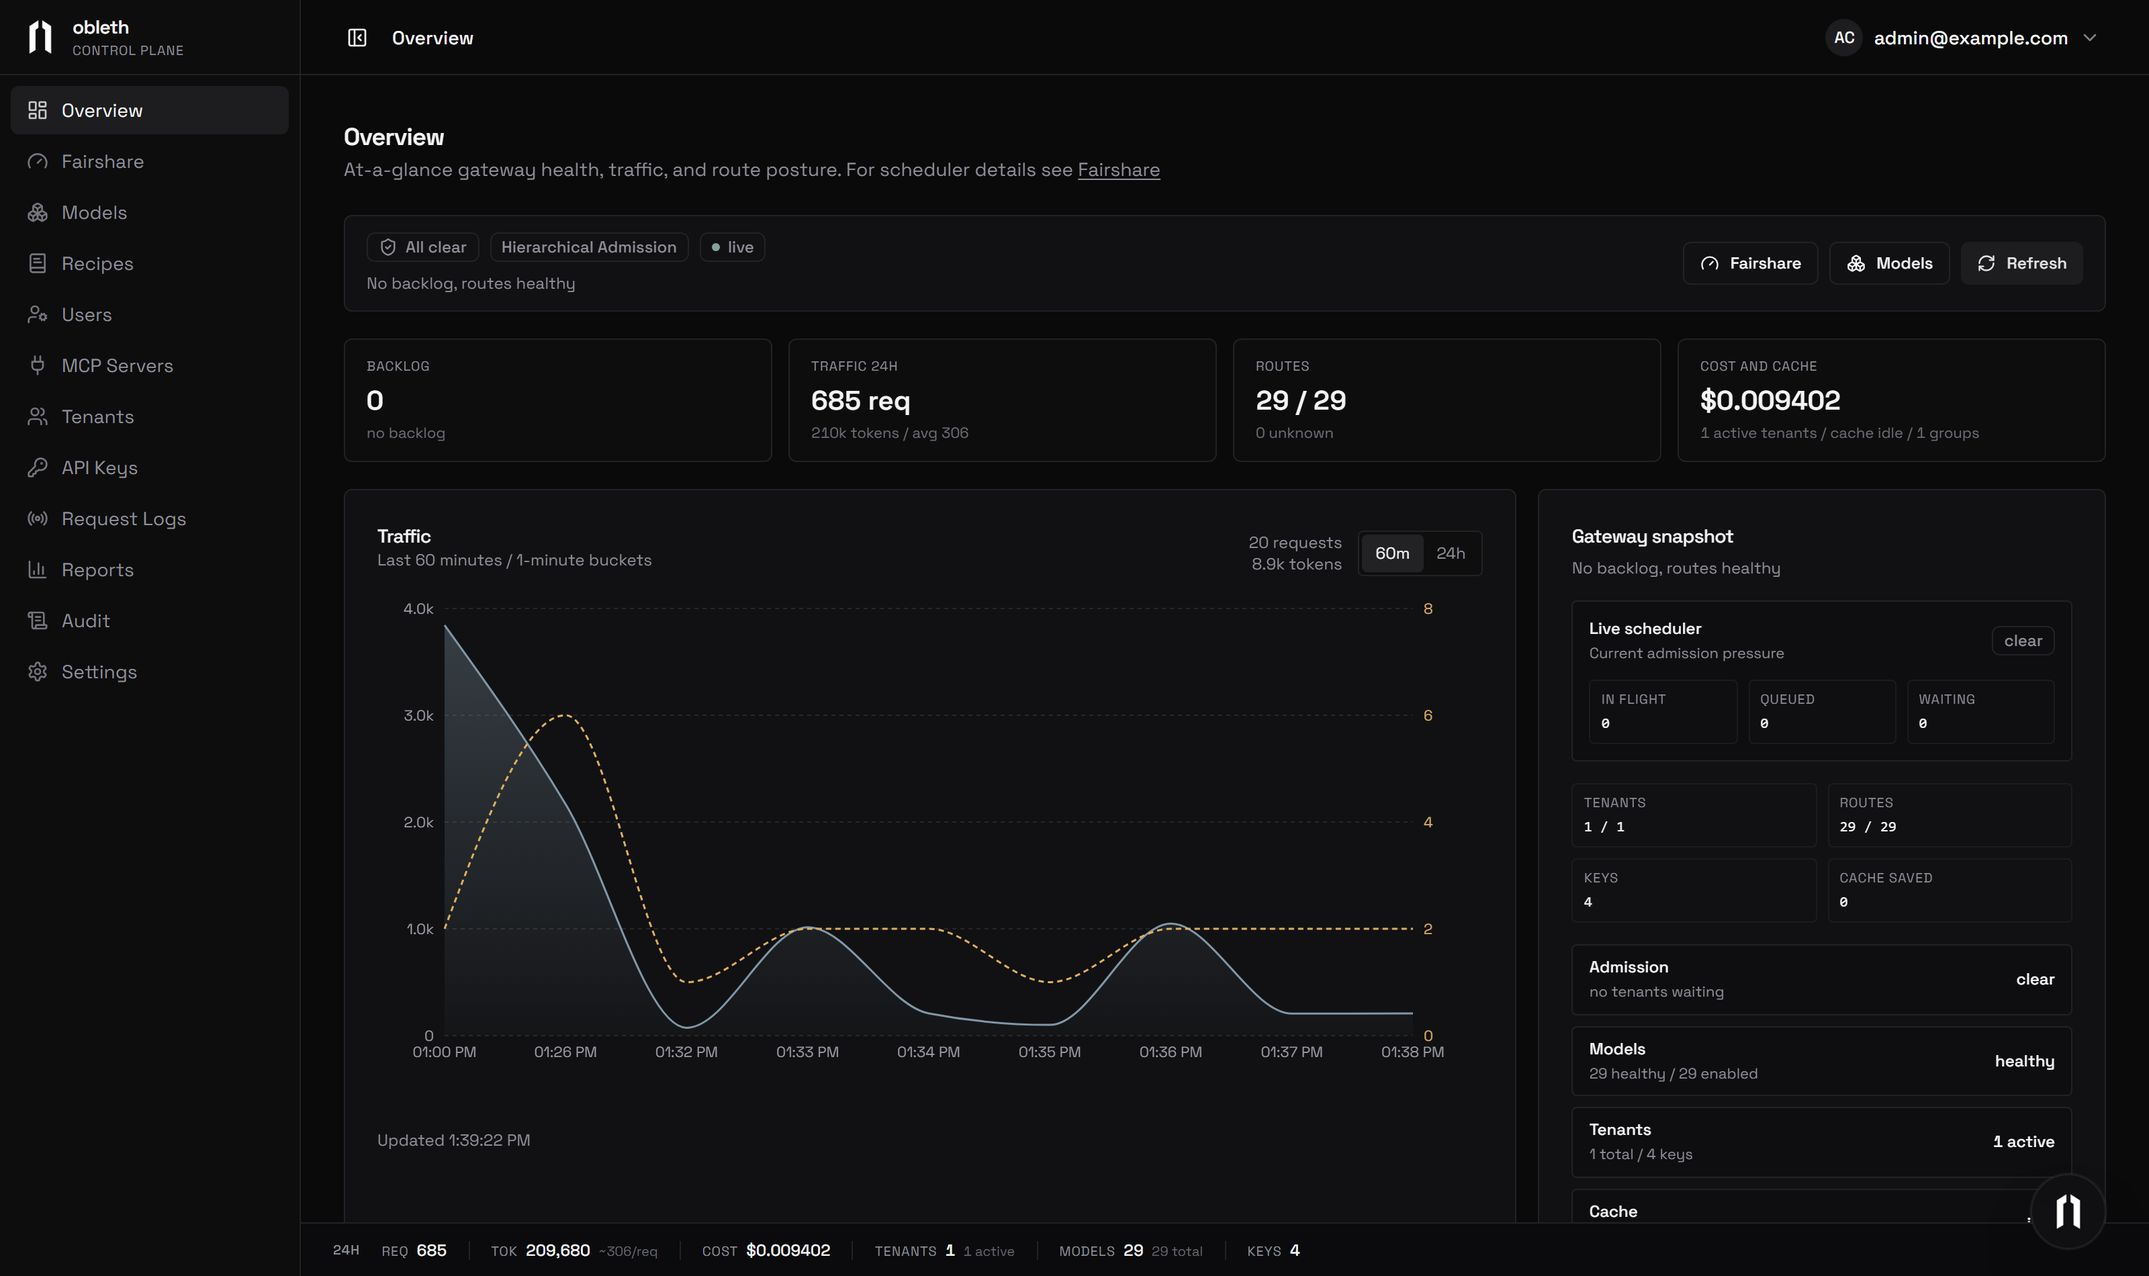
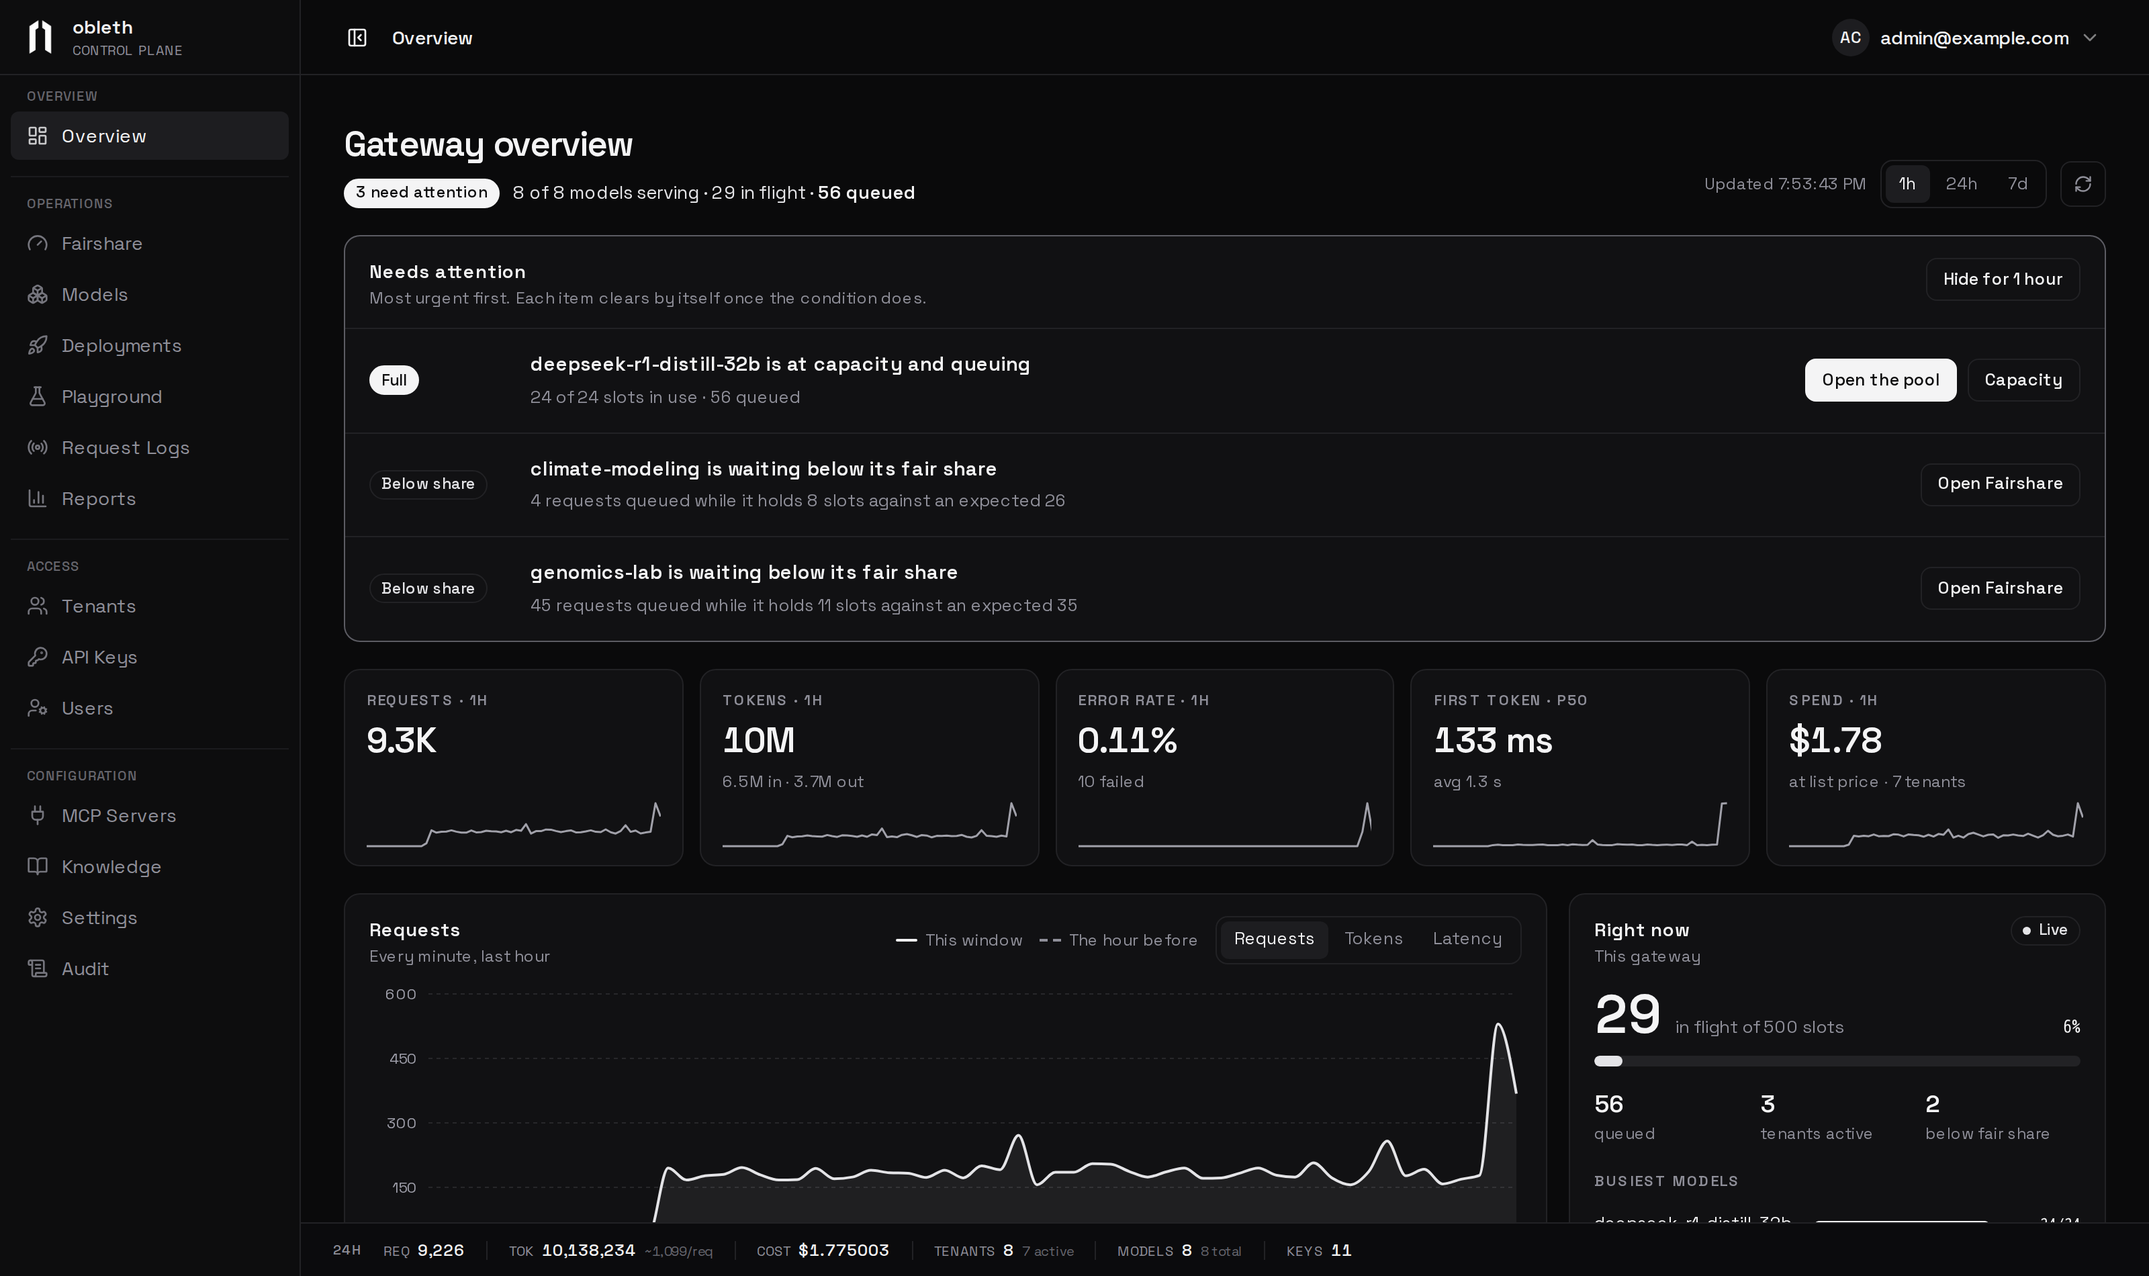
README: describe v2.0.0, with new screenshots
Covers the full API surface, per-model and cluster-wide fairshare, discovered pool sizes, every boon plus guardrails, Deployments on Slurm and Kubernetes, and the redesigned logs, reports and Playground, with a dashboard gallery. Screenshots come from a synthetic demo install (made-up tenants, keys and models on the benchmark backend); the old Charo and flow-view images are removed.

diff --git a/README.md b/README.md
@@ -7,9 +7,11 @@
 
 **obleth is a multi-tenant AI gateway for shared GPU infrastructure — university clusters, on-prem deployments, and cloud.**
 
-![obleth dashboard overview](.github/assets/dashboard.png)
+![The obleth Overview: what needs attention, traffic, and every model at a glance](.github/assets/dashboard.png)
 
-Point your clients at obleth and register your models. The gateway adds identity, weighted fairshare admission, automatic model selection, health verification, and cost, energy, and chargeback accounting on top of any OpenAI-compatible backend — vLLM, SGLang, llama.cpp, OpenAI, Together, or your own servers. On HPC clusters, a companion Slurm provisioner submits, monitors, and routes to inference jobs automatically. Clients keep their existing OpenAI SDKs; only the base URL changes.
+Point your clients at obleth and register your models. The gateway adds identity, weighted fairshare admission, automatic model selection, health verification, and cost, energy, and chargeback accounting on top of any OpenAI-compatible backend — vLLM, SGLang, llama.cpp, OpenAI, Together, or your own servers. On HPC clusters it launches models as Slurm jobs and keeps them running; on Kubernetes it sizes each model's pool from the replicas that are actually ready. Clients keep their existing OpenAI or Anthropic SDKs; only the base URL changes.
+
+**One endpoint for every kind of model.** Chat and completions, the Responses API, embeddings, rerank, moderation, speech, transcription and translation, image generation, edits and variations, video jobs (the OpenAI Videos API), the Anthropic Messages API (so Claude Code works against your own models), MCP servers at `/mcp/<name>`, and typed decisions at `/v1/verdicts`. Every surface runs the same admission, budgets, guardrails, and accounting.
 
 <picture>
   <source media="(prefers-color-scheme: dark)" srcset=".github/assets/architecture-dark.svg">
@@ -18,23 +20,19 @@ Point your clients at obleth and register your models. The gateway adds identity
 
 The design keeps the request path independent of everything that can fail around it: the data plane reads configuration only from Redis and in-process caches (never Postgres), telemetry is written asynchronously and spills to a local WAL if ClickHouse is down, and optional helpers fail open. A Postgres, ClickHouse, or sidecar outage degrades freshness or accounting — never request serving.
 
-Telemetry spill is stored beside `OBLETH_WAL_PATH` in a `.segments` directory;
-persist that directory together with the original WAL when configuring volumes.
-Replay reads at most 500 records / 1 MiB per batch and backs off up to 60 seconds
-after failures. New spill is capped at 256 MiB or 1,024 files; rejected spill is
-logged and counted in `obleth_telemetry_dropped`. Existing WAL files are replayed
-first and are never truncated to enforce the cap. Corrupt or oversized legacy
-records are retained with an error for operator repair; they do not prevent new
-usage from being inserted when ClickHouse is healthy. Replay is at-least-once:
-a crash after insertion but before checkpointing can duplicate the last batch.
-
 ## Scheduling and routing
 
-**Weighted fairshare admission.** A purpose-built weighted fair-queuing scheduler controls admission. Each tenant has a weight; when demand exceeds capacity, throughput divides proportionally, so no tenant can starve another. Tenants can be organized into groups — capacity splits between groups first, then among tenants within each group. Weights and group assignments update live, with no restart.
+**Weighted fairshare admission, per model.** A purpose-built weighted fair-queuing scheduler admits every request. Each model has its own pool, so a saturated model never delays one with free capacity, and usage on one model never costs a tenant priority on another. Inside a pool, capacity splits between groups, then tenants, then a tenant's keys, each by weight, so no tenant starves another and no user starves their team. With several gateway replicas the limits are cluster-wide slots in Redis, so any replica can use the whole of them. Weights and group assignments update live, with no restart.
 
-**Automatic model selection.** Send `model: "auto"` and obleth picks the best available model from the registered fleet. Hard filters remove models that are down, over capacity, or missing a required capability (function calling, JSON schema, context window); remaining candidates are scored by spare capacity and cost. An optional small-model classifier maps requests to intent tags (`coding`, `reasoning`, `vision`, `long-context`, …) to prefer the right specialist, with heuristics as fallback.
+**Pool sizes that follow the backend.** A model in `discovered` capacity mode takes its pool size from the replicas actually serving it (ready endpoints in a Kubernetes Service, or its registered endpoints), times a headroom factor, so the gateway's limit tracks the backend's own autoscaler instead of a number someone typed in.
 
-**Model boons.** Runtime-toggleable capabilities the gateway grants to models that lack native support. **Vision** relays image parts to a designator model and substitutes the description. **Structured output** enforces `response_format` JSON schemas and optionally repairs the response. **Gateway tool loop** injects registered MCP server tools into plain chat requests and executes the calls until a final answer, streamed live. **Context compression** compacts oversized JSON, logs, and repeated context before they reach the model — losslessly by default, with an optional self-hosted neural sidecar for prose. Every boon fails open: any error leaves the request unchanged.
+**Automatic model selection.** Send `model: "auto"` and obleth picks the best available model from the registered fleet. Hard filters remove models that are down, over capacity, or missing a required capability (function calling, JSON schema, context window); remaining candidates are scored by spare capacity and cost. An optional small classifier model tags each request (`coding`, `reasoning`, `vision`, `long-context`, …) and rates its difficulty through single-token verdicts, so harder questions can go to stronger models; heuristics take over if it fails. The Playground's Router tab shows the whole decision for any prompt.
+
+![The Playground's Router tab: every candidate model scored on capacity, cost and task fit](.github/assets/router.png)
+
+**Model boons.** Abilities the gateway adds to models that lack them, granted per model and composed per request. **Vision** describes images for text-only models. **Structured output** holds replies to a `response_format` JSON schema and repairs them if needed. **Tool loop** runs registered MCP server tools inside the gateway until a final answer, streamed live. **Image generation** lets a chat model draw through a registered image model. **Speculation** answers from a fast drafter when the target model agrees, gated per category. **Knowledge** retrieves from document collections and hands the model what it needs. **Context compression** compacts oversized JSON, logs, and repeated context — losslessly by default, with an optional self-hosted neural sidecar for prose. Every boon fails open: any error leaves the request unchanged.
+
+**Guardrails per tenant.** A tenant's policy scans input and output on every text path, including tool output and non-chat requests, and blocks, redacts, or only logs. The model-based harm scan reads its verdict off token probabilities, so a guard model that doesn't answer is an error the policy's `fail_open` setting decides, never a silent pass.
 
 **Model names that describe the model, not the deployment.** How a model is served — `fp8`, `mxfp4`, `awq` — is a `quantization` field on the route, not something spelled into the name clients call, so re-quantizing a deployment is an edit rather than a rename. A route can also answer to aliases, which lets an old name keep working while only the clean one is advertised. `GET /v1/models` reports the gateway's own name even when the backend knows itself by its quantized one, and `GET /model/info` (LiteLLM-compatible) adds the serving format, routing tags, context window, prices, capabilities, and health from the gateway's own registry.
 
@@ -70,11 +68,15 @@ No new model and no external service: the gateway answers each question with its
 
 **Health checks that match the model type.** Chat, embedding, speech, and transcription models are each verified against their real modality endpoint — a minimal inference probe, not a generic ping. Image and video models, where even a minimal generation is costly (a video render takes minutes), are checked against the upstream's model catalog instead. A rejected probe with the model still listed in the upstream's catalog is reported as a likely misconfiguration instead of an outage; a model genuinely missing upstream alerts with catalog evidence. Fixing a model's connection settings clears stale failure state and re-checks within seconds.
 
-**Per-request flow view.** Every request can be traced through the gateway's own span recorder: auth resolve, auto route, fairshare admission, boon execution, upstream call. The dashboard renders the trace as a node graph with durations and attributes on each step. No external collector is required — spans land in ClickHouse next to usage data, and OTLP export is available for Jaeger or any OpenTelemetry backend.
+**Request logs you can search.** The log opens live and takes filters as you'd type them (`status:error model:… team:… key:…`); a strip charts the window with failures shown bright, and a panel counts what's in it. A request opens with a line saying what happened, a timeline of waiting for a slot, first token, and the rest, and every number. Turn tracing on for a tenant or key and each step (auth, auto route, admission, boons, upstream) is recorded by the gateway's own span recorder into ClickHouse next to usage data; OTLP export is available for Jaeger or any OpenTelemetry backend.
 
-![Request flow view: a traced request rendered as a node graph](.github/assets/flow-view.png)
+![Request logs with a request open: what happened, its timeline, and every number](.github/assets/request.png)
 
-**Slurm provisioner.** A companion service manages inference servers on HPC clusters via `slurmrestd`: it submits jobs, health-probes each replica, promotes healthy ones into the routing table, and resubmits when jobs are preempted. Fresh replicas are warmed with a throwaway request before they take real traffic. Zombie jobs — RUNNING in Slurm but dead or hung at inference — are detected on two independent signals and restarted automatically, capped at one restart per model per tick. When the provisioner can't reach Slurm, the dashboard says so loudly instead of showing stale state as healthy.
+**Deployments on your own compute.** One page lists the models obleth launches on Slurm next to the Kubernetes models it watches. On Slurm, a companion provisioner talks to `slurmrestd`: pick a recipe, choose a partition (the dashboard shows whether a replica fits and how many fitting nodes are idle), review the exact script, and launch; it submits the jobs, health-probes each replica, promotes healthy ones into the routing table, and resubmits when jobs are preempted. Fresh replicas are warmed before they take traffic, and zombie jobs — RUNNING in Slurm but dead or hung at inference — are detected on two independent signals and restarted. Scale, pause, or restart from the deployment's page. When the provisioner can't reach Slurm, the dashboard says so instead of showing stale state as healthy.
+
+![Deployments: Kubernetes models watched and Slurm models launched, in one table](.github/assets/deployments.png)
+
+**Telemetry that survives outages.** Usage rows spill to a local write-ahead file while ClickHouse is down and replay when it returns. Spill is stored beside `OBLETH_WAL_PATH` in a `.segments` directory; persist that directory together with the original WAL when configuring volumes. Replay reads at most 500 records / 1 MiB per batch and backs off up to 60 seconds after failures. New spill is capped at 256 MiB or 1,024 files; rejected spill is logged and counted in `obleth_telemetry_dropped`. Existing WAL files are replayed first and are never truncated to enforce the cap. Corrupt or oversized legacy records are retained with an error for operator repair; they do not prevent new usage from being inserted when ClickHouse is healthy. Replay is at-least-once: a crash after insertion but before checkpointing can duplicate the last batch.
 
 **Local-first network posture.** Private, LAN, and loopback addresses are valid upstream targets out of the box — no allowlist needed for cluster-internal endpoints. Link-local and cloud-metadata ranges are always blocked. `OBLETH_BLOCK_PRIVATE_NETWORKS=1` enables strict mode with explicit CIDR exceptions.
 
@@ -86,17 +88,32 @@ No new model and no external service: the gateway answers each question with its
 
 **Energy and carbon per request.** Point the gateway at your Prometheus with any PromQL expression returning per-node power — Habana, DCGM, and IPMI exporters all work — and each request is charged its wall-time share of a serving slot's draw: watt-hours, electricity cost, and CO₂, recorded next to token cost. Queue time is never charged and idle power is never attributed, so totals understate rather than overstate. Off by default; if Prometheus is unreachable, requests are never delayed.
 
-**Chargeback reports.** Historical usage filtered by team and key, grouped by day, team, key, or model, with spend on every row and CSV export that carries exactly the columns and filters you're looking at.
+**Chargeback reports.** Pick a period (7 or 30 days, this or last month, or any range) and filter by team, key and model: five totals against the previous period, one chart split by team or model, the teams and models that cost the most, and a breakdown by day, team, key or model that ends in a totals row. Every number links to the requests behind it, and exports preview their first rows before the download.
 
 ![Reports: daily volume, spend, and per-team breakdowns](.github/assets/reports.png)
+
+## The dashboard
+
+Every page leads with what needs attention and saves with one bar where settings are edited. Models is a searchable table with a page per model; Fairshare leads with the model pools, who is waiting, and why; Tenants and API keys show each tenant's use, budget and limits, and keys can move between tenants; Settings opens on anything that needs you.
+
+<table>
+  <tr>
+    <td><img alt="Models: health, load, requests, price and tags for every model" src=".github/assets/models.png"></td>
+    <td><img alt="Fairshare: one model's pool, each tenant against its fair share" src=".github/assets/fairshare.png"></td>
+  </tr>
+  <tr>
+    <td><img alt="A tenant's page: requests, budget, limits, models and keys" src=".github/assets/tenant.png"></td>
+    <td><img alt="Settings: what needs you, then every setting with one save bar" src=".github/assets/settings.png"></td>
+  </tr>
+</table>
 
 ## Benchmarking and testing
 
 **`obench score`.** A graded readiness scorecard for the whole deployment. Six sections — capacity ramp, gateway overhead, streaming quality, overload behavior, resilience (fault-injected MTTD/MTTR), and fairshare dynamics — roll up into a weighted, letter-graded report. Scores are stored as baselines and diffed on later runs to catch regressions. A GPU-free fixture backend ships in the compose stack, so the full suite runs without touching real models.
 
-**Playground.** A dedicated dashboard tab for chatting with one model or comparing up to four in a shared timeline. Each question appears once, with independent responses below it. Model selection, generation settings, browser-local sessions, per-response retry and cancellation, and “Continue with this model” keep testing in one place. Charo’s guided assistant is available from the same model picker. Charo carries a prompt to any configured model and returns the answer with its cost: latency, token counts, and which boons actually fired. Guided activities probe a model's capabilities, chat with a specific model through the gateway, verify MCP servers end-to-end, or run a concurrency-ramp benchmark with knee detection and a graded capacity curve — rendered inline in the conversation.
+**Playground.** One workspace for trying the gateway: chat with one model or compare several side by side (each answer reports time to first token, tokens per second, tokens, cost and a link to its trace), see how `auto` would route a prompt, generate images, and build Verdicts questions. Get code turns the current request into cURL, Python, or JavaScript. The built-in assistant can check a new model's capabilities, verify MCP servers end to end, or run a concurrency-ramp benchmark with a graded capacity curve, inline in the conversation.
 
-![Charo model-testing console](.github/assets/charo.png)
+![The Playground: sessions, a new-session launcher, and run settings](.github/assets/playground.png)
 
 **Synthetic tenants.** Tenants can be flagged synthetic (obench seeds its fixture tenants that way). Their traffic is recorded as benchmark traffic and, together with health probes, excluded from usage and cost statistics by default — test runs never pollute the numbers you bill against.
 
